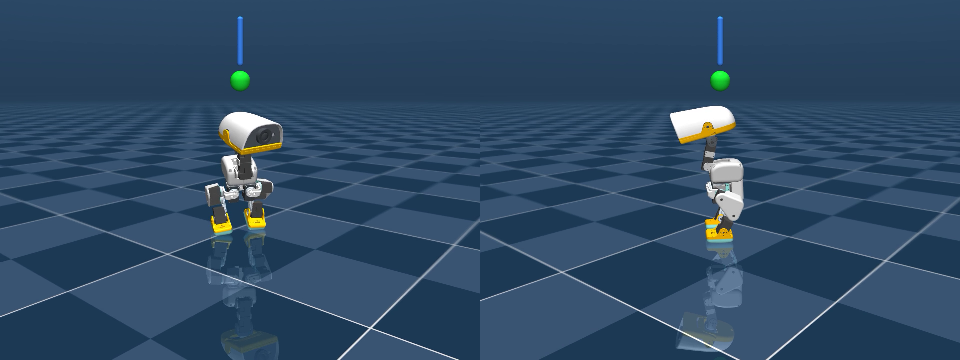
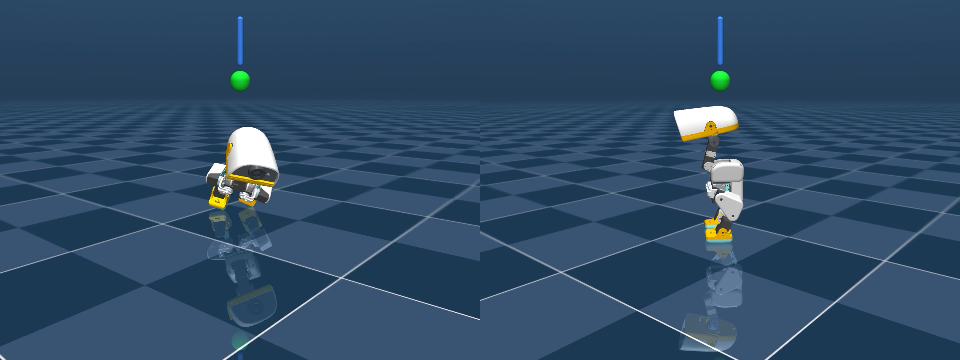
docs(reports): the catch figure at +600 ms, where the difference is visible from the report's camera
Claude-Session: https://claude.ai/code/session_01VN5TFDT43yrcGtPUSUDCRB

diff --git a/docs/reports/microduck_standing_report.md b/docs/reports/microduck_standing_report.md
@@ -171,7 +171,7 @@ joint: in the first 400 ms the neck pitches 20 to 40 mrad, both hips move about 
 both ankles about 15, in a coordinated pattern. At 3 N the pushes from the side are
 caught and the pushes from front and back go over; the edge is the sagittal one.
 
-![The same 2 N shove, 400 ms after it lands: the previous stance (left) is going over at 20°; the new stance (right) peaked at 3.0° and is back to 1.9°.](figures/microduck_catch_2N.png)
+![The same 2 N shove, 600 ms after it lands: the previous stance (left) is going over at 51°; the new stance (right) peaked at 3.0° and is back to 0.1°.](figures/microduck_catch_2N.png)
 
 The reference for scale is Pollen's trained policy, which catches 3 N and 5 N and is
 knocked over by 10 N. The brain's envelope is now about half of it, up from about a
